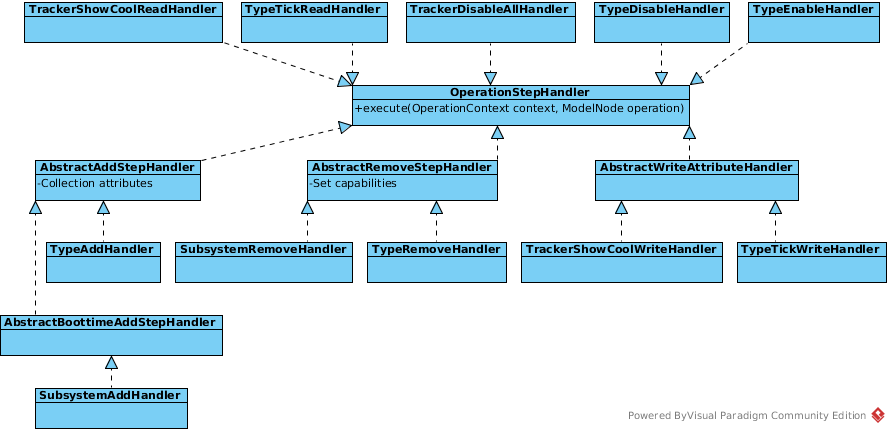
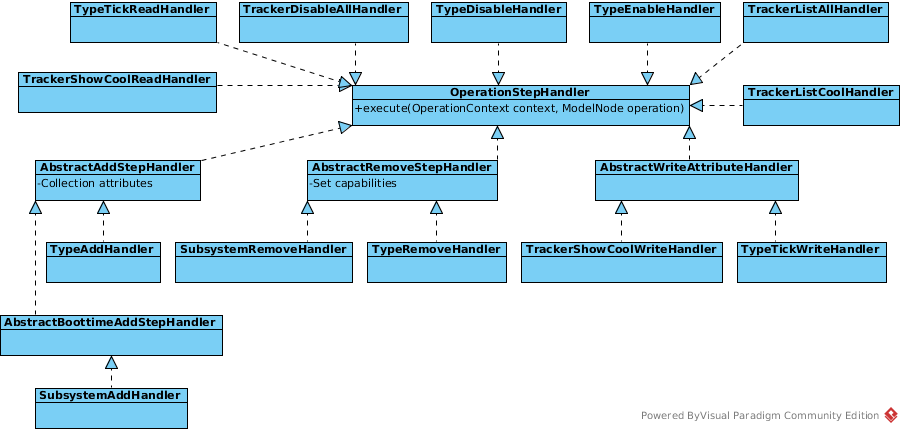
add more operation hanlder

diff --git a/subsystem/acme-subsystem/src/main/java/com/acme/corp/tracker/handler/TrackerListAllHandler.java b/subsystem/acme-subsystem/src/main/java/com/acme/corp/tracker/handler/TrackerListAllHandler.java
@@ -1,22 +1,35 @@
 package com.acme.corp.tracker.handler;
 
+import java.util.Set;
+
 import org.jboss.as.controller.OperationContext;
 import org.jboss.as.controller.OperationFailedException;
 import org.jboss.as.controller.OperationStepHandler;
 import org.jboss.dmr.ModelNode;
 
+import com.acme.corp.tracker.extension.TrackerDeploymentService;
+
 public class TrackerListAllHandler implements OperationStepHandler {
     
     public static final TrackerListAllHandler INSTANCE = new TrackerListAllHandler();
     
-    private TrackerListAllHandler(){
-        
+    private TrackerListAllHandler(){ 
     }
 
     @Override
     public void execute(OperationContext context, ModelNode operation) throws OperationFailedException {
-        // TODO Auto-generated method stub
 
+        TrackerDeploymentService service = (TrackerDeploymentService) context.getServiceRegistry(true).getRequiredService(TrackerDeploymentService.NAME).getValue();
+        Set<String> deployments = service.getDeployments();
+        final ModelNode result = new ModelNode();
+        if(deployments.isEmpty()){
+            result.setEmptyList();
+        } else {
+            for(String deployment : deployments) {
+                result.add(deployment);
+            }
+        }
+        context.getResult().set(result);
     }
 
 }

diff --git a/subsystem/acme-subsystem/src/main/java/com/acme/corp/tracker/handler/TrackerListCoolHandler.java b/subsystem/acme-subsystem/src/main/java/com/acme/corp/tracker/handler/TrackerListCoolHandler.java
@@ -1,22 +1,35 @@
 package com.acme.corp.tracker.handler;
 
+import java.util.Set;
+
 import org.jboss.as.controller.OperationContext;
 import org.jboss.as.controller.OperationFailedException;
 import org.jboss.as.controller.OperationStepHandler;
 import org.jboss.dmr.ModelNode;
+
+import com.acme.corp.tracker.extension.TrackerDeploymentService;
 
 public class TrackerListCoolHandler implements OperationStepHandler {
 
     public static final TrackerListCoolHandler INSTANCE = new TrackerListCoolHandler();
     
     private TrackerListCoolHandler(){
-        
     }
     
     @Override
     public void execute(OperationContext context, ModelNode operation) throws OperationFailedException {
-        // TODO Auto-generated method stub
 
+        TrackerDeploymentService service = (TrackerDeploymentService) context.getServiceRegistry(true).getRequiredService(TrackerDeploymentService.NAME).getValue();
+        Set<String> deployments = service.getCoolDeployments();
+        final ModelNode result = new ModelNode();
+        if(deployments.isEmpty()){
+            result.setEmptyList();
+        } else {
+            for(String deployment : deployments) {
+                result.add(deployment);
+            }
+        }
+        context.getResult().set(result);
     }
 
 }

diff --git a/subsystem/acme-subsystem/src/main/java/com/acme/corp/tracker/extension/TrackerSubsystemDefinition.java b/subsystem/acme-subsystem/src/main/java/com/acme/corp/tracker/extension/TrackerSubsystemDefinition.java
@@ -45,13 +45,17 @@ public class TrackerSubsystemDefinition extends SimpleResourceDefinition {
             .build();
     
     public static final SimpleOperationDefinition LIST_DEPLOYMENTS_OPER = new SimpleOperationDefinitionBuilder(LIST_DEPLOYMENTS, TrackerExtension.getResourceDescriptionResolver(null))
-            .setReplyType(ModelType.LIST)
+            .setReadOnly()
             .setRuntimeOnly()
+            .setReplyType(ModelType.LIST)
+            .setReplyValueType(ModelType.STRING)
             .build();
     
     public static final SimpleOperationDefinition LIST_COOL_DEPLOYMENTS_OPER = new SimpleOperationDefinitionBuilder(LIST_COOL_DEPLOYMENTS, TrackerExtension.getResourceDescriptionResolver(null))
-            .setReplyType(ModelType.LIST)
+            .setReadOnly()
             .setRuntimeOnly()
+            .setReplyType(ModelType.LIST)
+            .setReplyValueType(ModelType.STRING)
             .build();
     
 
